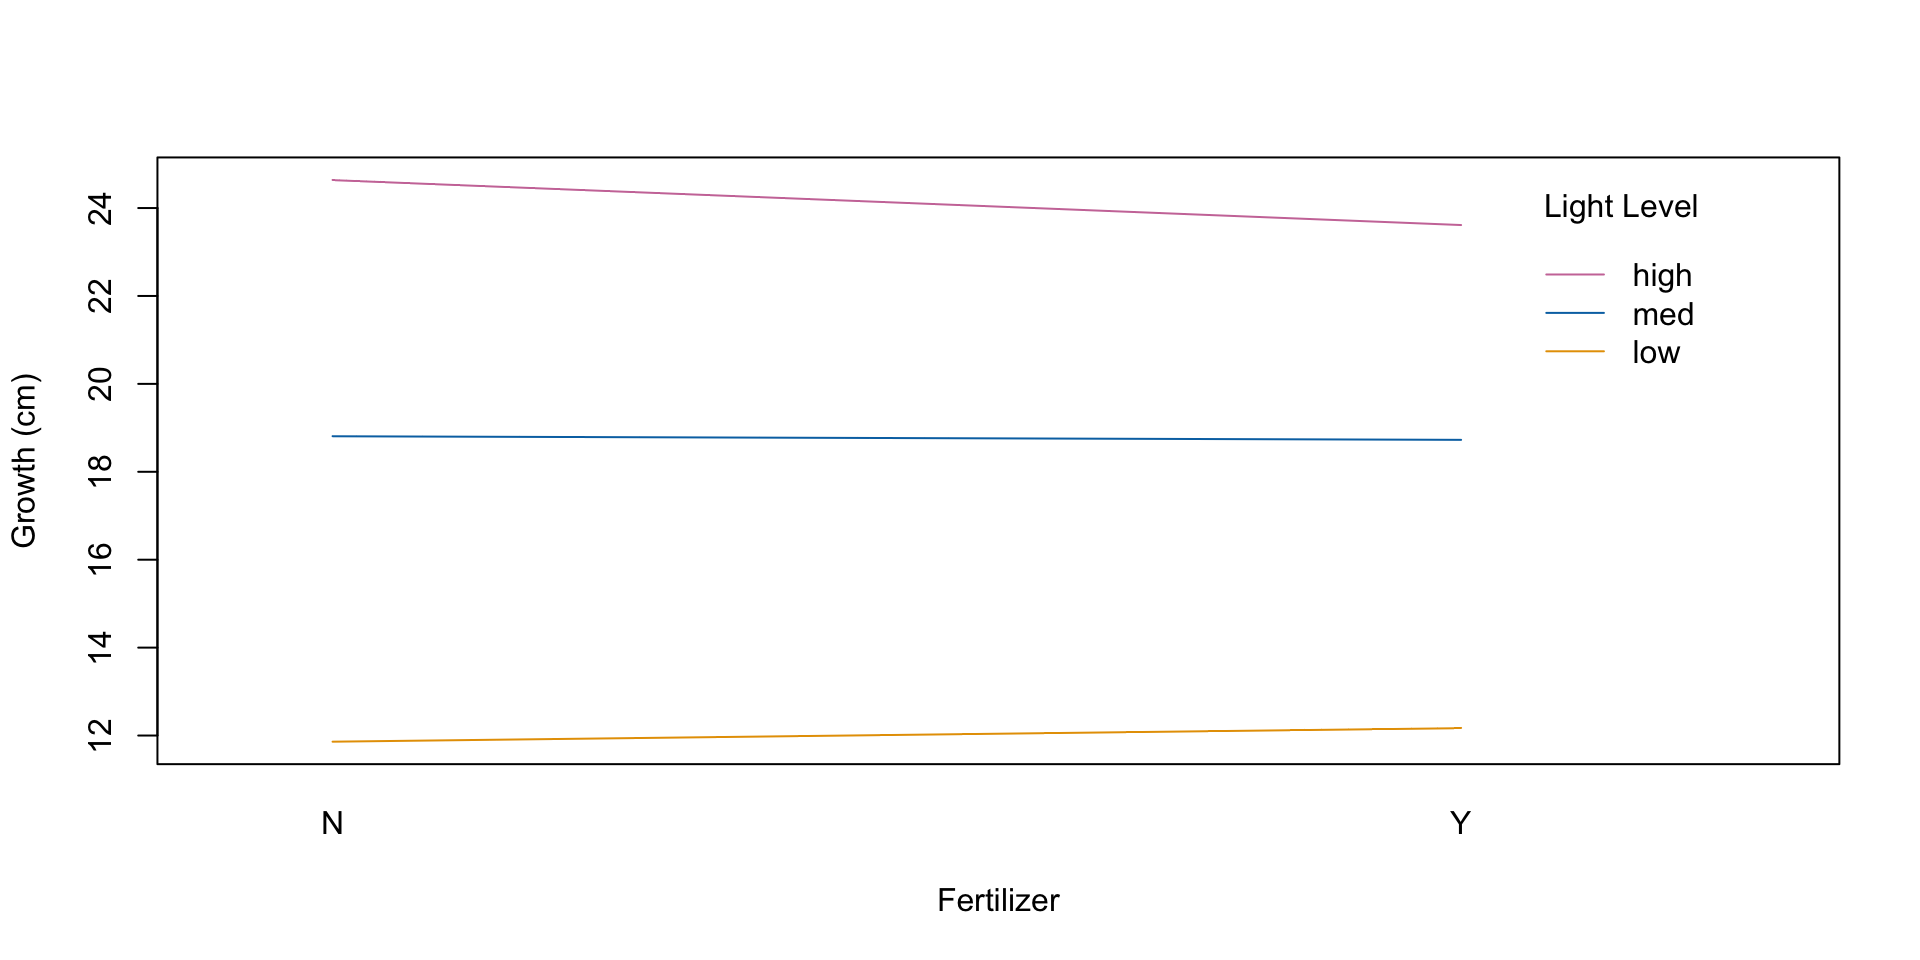
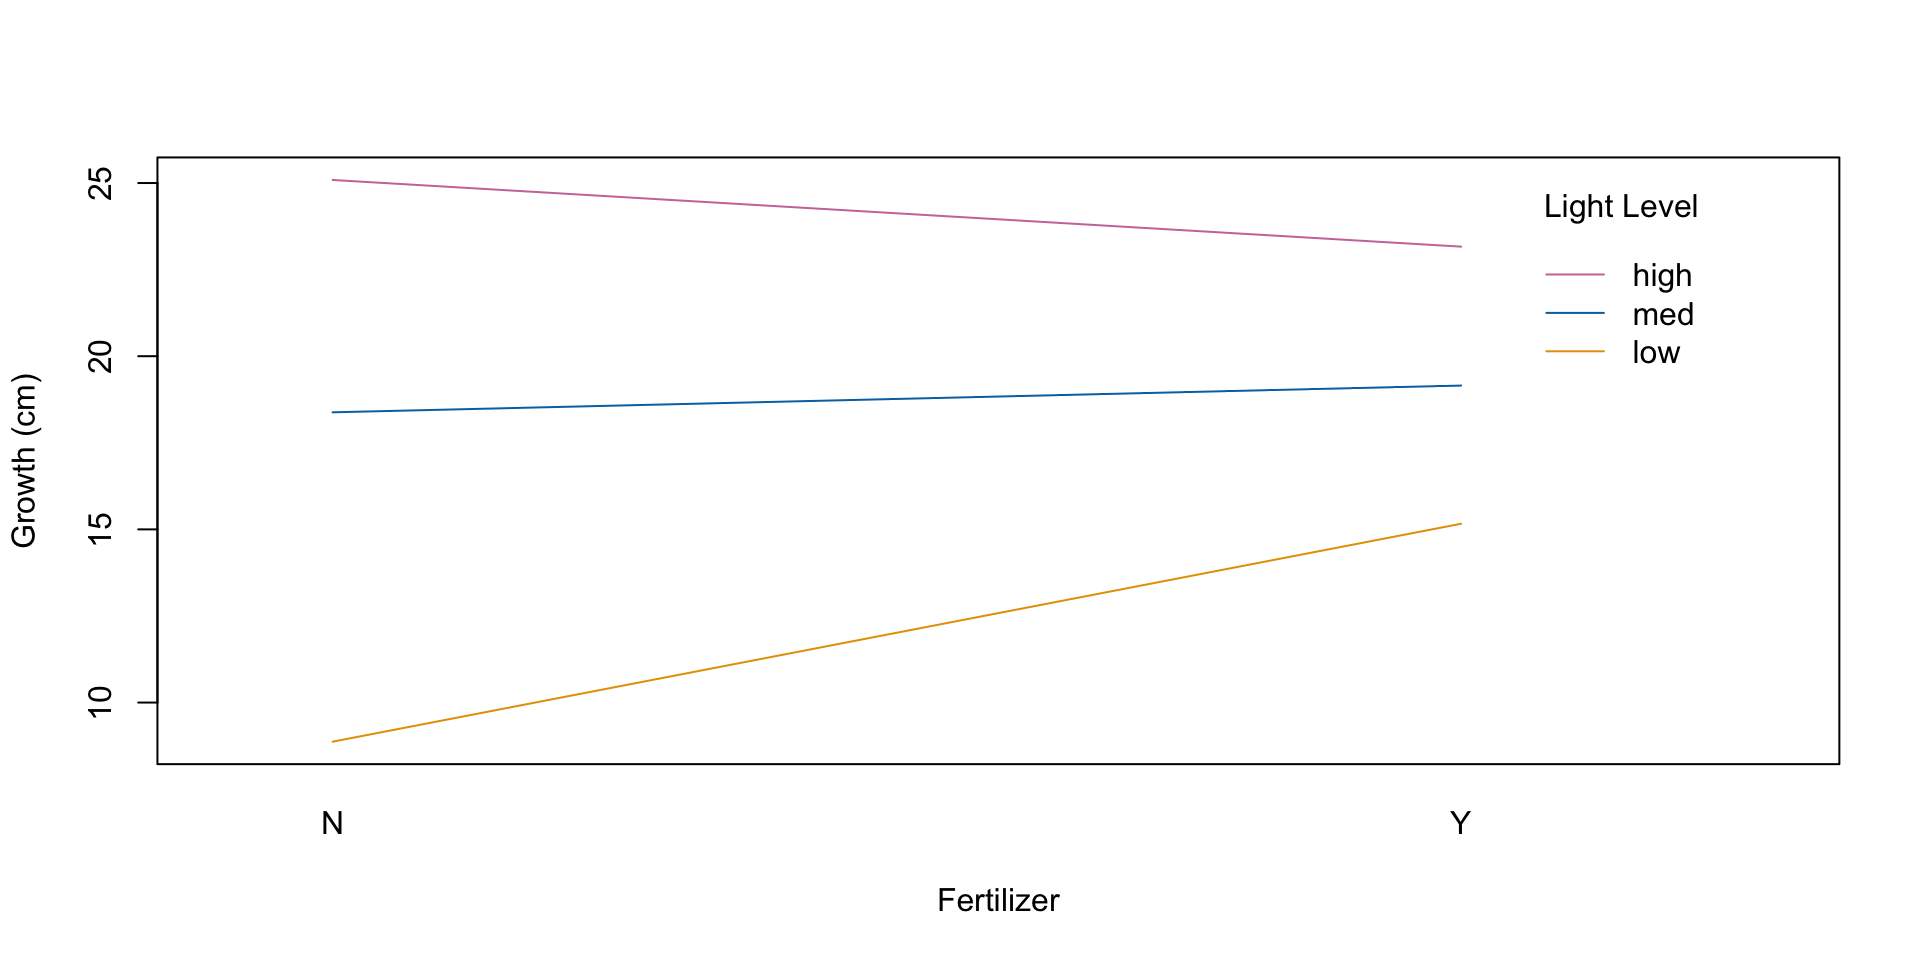
updated two-way example

diff --git a/docs/r.html b/docs/r.html
@@ -654,7 +654,7 @@ med-low    6.751667   1.22789 12.2754429 0.0162799</code></pre>
 <h2>New Data Set</h2>
 <div class="cell">
 <div class="sourceCode cell-code" id="cb12"><pre class="sourceCode numberSource r number-lines code-with-copy"><code class="sourceCode r"><span id="cb12-1"><a></a>growth2 <span class="ot">&lt;-</span> <span class="fu">data.frame</span>(<span class="at">plant =</span> <span class="fu">c</span>(<span class="dv">1</span><span class="sc">:</span><span class="dv">6</span>),</span>
-<span id="cb12-2"><a></a>                     <span class="at">fertilizer =</span> <span class="fu">rep</span>(<span class="fu">c</span>(<span class="st">"Y"</span>,<span class="st">"N"</span>),<span class="at">each=</span><span class="dv">3</span>),</span>
+<span id="cb12-2"><a></a>                     <span class="at">fertilizer =</span> <span class="fu">rep</span>(<span class="fu">c</span>(<span class="st">"Y"</span>,<span class="st">"N"</span>),<span class="dv">3</span>),</span>
 <span id="cb12-3"><a></a>                     <span class="at">low =</span> <span class="fu">c</span>(<span class="fl">18.51</span>,<span class="fl">5.99</span>,<span class="fl">12.02</span>,<span class="fl">7.06</span>,<span class="fl">14.96</span>,<span class="fl">13.56</span>),</span>
 <span id="cb12-4"><a></a>                     <span class="at">med =</span> <span class="fu">c</span>(<span class="fl">19.19</span>,<span class="fl">19.09</span>,<span class="fl">17.90</span>,<span class="fl">21.47</span>,<span class="fl">20.38</span>,<span class="fl">14.58</span>),</span>
 <span id="cb12-5"><a></a>                     <span class="at">high =</span> <span class="fu">c</span>(<span class="fl">19.23</span>,<span class="fl">24.27</span>,<span class="fl">27.34</span>,<span class="fl">22.23</span>,<span class="fl">22.92</span>,<span class="fl">28.77</span>))</span>
@@ -671,9 +671,9 @@ med-low    6.751667   1.22789 12.2754429 0.0162799</code></pre>
 1     1 Y          low          18.5 
 2     1 Y          med          19.2 
 3     1 Y          high         19.2 
-4     2 Y          low           5.99
-5     2 Y          med          19.1 
-6     2 Y          high         24.3 </code></pre>
+4     2 N          low           5.99
+5     2 N          med          19.1 
+6     2 N          high         24.3 </code></pre>
 </div>
 </div>
 </section>
@@ -685,10 +685,10 @@ med-low    6.751667   1.22789 12.2754429 0.0162799</code></pre>
 <span id="cb14-3"><a></a><span class="fu">summary</span>(model2)</span></code><button title="Copy to Clipboard" class="code-copy-button"><i class="bi"></i></button></pre></div>
 <div class="cell-output cell-output-stdout">
 <pre><code>                       Df Sum Sq Mean Sq F value   Pr(&gt;F)    
-light_level             2  441.9  220.95  13.141 0.000949 ***
-fertilizer              1    0.3    0.32   0.019 0.893009    
-light_level:fertilizer  2    1.4    0.71   0.042 0.958755    
-Residuals              12  201.8   16.81                     
+light_level             2  441.9  220.95  19.265 0.000179 ***
+fertilizer              1   13.2   13.23   1.153 0.303983    
+light_level:fertilizer  2   52.7   26.33   2.296 0.143165    
+Residuals              12  137.6   11.47                     
 ---
 Signif. codes:  0 '***' 0.001 '**' 0.01 '*' 0.05 '.' 0.1 ' ' 1</code></pre>
 </div>

diff --git a/docs/index.html b/docs/index.html
@@ -174,7 +174,7 @@ window.Quarto = {
 
 <div class="quarto-listing quarto-listing-container-grid" id="listing-listing">
 <div class="list grid quarto-listing-cols-3">
-<div class="g-col-1" data-index="0" data-listing-date-sort="1770616800000" data-listing-file-modified-sort="1770843703729" data-listing-date-modified-sort="NaN" data-listing-reading-time-sort="16" data-listing-word-count-sort="3042">
+<div class="g-col-1" data-index="0" data-listing-date-sort="1770616800000" data-listing-file-modified-sort="1771013027660" data-listing-date-modified-sort="NaN" data-listing-reading-time-sort="16" data-listing-word-count-sort="3049">
 <a href="./r.html" class="quarto-grid-link">
 <div class="quarto-grid-item card h-100 card-left">
 <p class="card-img-top">
@@ -196,7 +196,7 @@ Feb 9, 2026
 </div>
 </a>
 </div>
-<div class="g-col-1" data-index="1" data-listing-date-sort="1771221600000" data-listing-file-modified-sort="1770843523550" data-listing-date-modified-sort="NaN" data-listing-reading-time-sort="14" data-listing-word-count-sort="2650">
+<div class="g-col-1" data-index="1" data-listing-date-sort="1771221600000" data-listing-file-modified-sort="1771013045894" data-listing-date-modified-sort="NaN" data-listing-reading-time-sort="14" data-listing-word-count-sort="2657">
 <a href="./sas.html" class="quarto-grid-link">
 <div class="quarto-grid-item card h-100 card-left">
 <p class="card-img-top">

diff --git a/docs/sas.html b/docs/sas.html
@@ -666,7 +666,7 @@ Nicole Harms
 <li><p>Even if interaction is not determined statistically significant via an ANOVA, results still need to be looked at with caution</p>
 <ul>
 <li><p>Interaction may still be present <em>even if it is not statistically significant.</em></p></li>
-<li><p>Individual effects may not have meaning, even if interaction is not significant.</p></li>
+<li><p>Individual effects should not be interpreted if there is any kind of interaction, significant or not.</p></li>
 </ul></li>
 <li><p>A useful tool is an <strong>interaction plot</strong></p></li>
 <li><p>This helps us visualize how two effects (variables) are related.</p></li>
@@ -726,7 +726,7 @@ Nicole Harms
 </div>
 <p>I didn’t include the output here, because it is long!</p>
 <ul>
-<li>Tukey’s HSD test can give great further insight, especially when your interaction is significant</li>
+<li>Tukey’s HSD test can give great further insight, especially when ANOVA results in a statistically insignificant interaction.</li>
 </ul>
 </section>
 <section id="other-anova-notes" class="slide level2 center" style="font-size: 30px">
